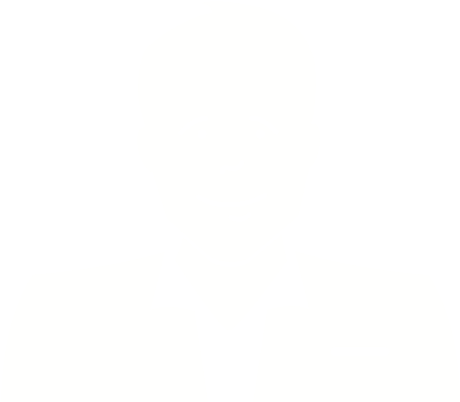
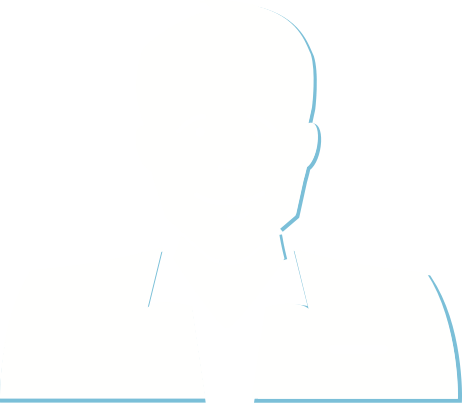
van alles gedaan en nog meer
ja ja, heel een dag werk.

diff --git a/stylesheets/main.css b/stylesheets/main.css
@@ -93,11 +93,8 @@ header .slogan {
   margin-bottom: 30px;
 }
 /* line 82, ../sass/main.sass */
-.explanation ol li {
-  padding-top: 195px;
-  background-image: url("../images/checklist.png");
-  background-repeat: no-repeat;
-  background-position: top center;
+.explanation ol li.questions {
+  padding-top: 215px;
   height: 300px;
   width: 340px;
   float: left;
@@ -105,38 +102,78 @@ header .slogan {
   color: #fffeff;
   line-height: 30px;
   text-align: center;
+  height: 300px;
+  width: 340px;
+  background-image: url("../images/checklist.png");
+  background-repeat: no-repeat;
+  background-position: center 30px;
+}
+/* line 98, ../sass/main.sass */
+.explanation ol li.lawyer {
+  padding-top: 215px;
+  height: 300px;
+  width: 340px;
+  float: left;
+  font-size: 20px;
+  color: #fffeff;
+  line-height: 30px;
+  text-align: center;
+  height: 300px;
+  width: 340px;
+  background-image: url("../images/jurist.png");
+  background-repeat: no-repeat;
+  background-position: top center;
+}
+/* line 114, ../sass/main.sass */
+.explanation ol li.done {
+  padding-top: 215px;
+  height: 300px;
+  width: 340px;
+  float: left;
+  font-size: 20px;
+  color: #fffeff;
+  line-height: 30px;
+  text-align: center;
+  height: 300px;
+  width: 340px;
+  background-image: url("../images/klaar.png");
+  background-repeat: no-repeat;
+  background-position: center 30px;
 }
 
-/* line 97, ../sass/main.sass */
-.information {
+/* line 133, ../sass/main.sass */
+section.information div.content {
+  width: 593px;
+  float: left;
+}
+/* line 136, ../sass/main.sass */
+section.information div.lawyer {
+  float: right;
   background-image: url("../images/Advocaat.png");
   background-repeat: no-repeat;
   background-position: top right;
-}
-/* line 98, ../sass/main.sass */
-.information p {
-  width: 593px;
-}
-/* line 100, ../sass/main.sass */
-.information h2 {
-  margin-bottom: 30px;
+  padding-top: 314px;
+  height: 0;
+  overflow: hidden;
+  width: 275px;
 }
 
-/* line 107, ../sass/main.sass */
+/* line 148, ../sass/main.sass */
 .product {
-  margin-top: 195px;
+  margin-top: 215px;
   text-align: center;
 }
-/* line 110, ../sass/main.sass */
+/* line 151, ../sass/main.sass */
 .product h2 {
   text-align: center;
+  padding-bottom: 30px;
 }
-/* line 112, ../sass/main.sass */
+/* line 154, ../sass/main.sass */
 .product h3 {
   margin-top: 30px;
   font-family: Ubuntu;
 }
-/* line 115, ../sass/main.sass */
+/* line 157, ../sass/main.sass */
 .product .terms, .product .contract {
   float: left;
   padding-top: 305px;
@@ -146,29 +183,71 @@ header .slogan {
   background-repeat: no-repeat;
   background-position: top center;
 }
-/* line 125, ../sass/main.sass */
-.product .terms a, .product .contract a {
-  margin-top: 30px;
+/* line 168, ../sass/main.sass */
+.product .terms p a, .product .contract p a {
+  margin-top: 45px;
 }
-/* line 127, ../sass/main.sass */
+/* line 170, ../sass/main.sass */
 .product .contract {
   float: right;
   background-image: url("../images/contract.png");
 }
 
-/* line 136, ../sass/main.sass */
+/* line 179, ../sass/main.sass */
 .testimonial blockquote {
   text-align: center;
 }
-/* line 138, ../sass/main.sass */
+/* line 181, ../sass/main.sass */
 .testimonial blockquote p {
   display: block;
   text-align: center;
   font-family: "Ubuntu-Italic";
-  font-size: 48px;
-  line-height: 86px;
+  font-size: 35px;
+  line-height: 63px;
 }
-/* line 145, ../sass/main.sass */
+/* line 188, ../sass/main.sass */
 .testimonial blockquote footer {
-  font-size: 30px;
+  padding-top: 20px;
+  font-size: 20px;
+}
+
+/* line 192, ../sass/main.sass */
+.contact {
+  margin-top: 215px;
+  text-align: center;
+}
+/* line 195, ../sass/main.sass */
+.contact h2 {
+  text-align: center;
+  padding-bottom: 30px;
+}
+/* line 198, ../sass/main.sass */
+.contact .mail, .contact .phone {
+  width: 490px;
+  padding-top: 100px;
+  height: 200px;
+}
+/* line 202, ../sass/main.sass */
+.contact .mail h2, .contact .phone h2 {
+  text-align: center;
+  padding-bottom: 30px;
+}
+/* line 205, ../sass/main.sass */
+.contact .mail h3, .contact .phone h3 {
+  margin-top: 30px;
+  font-family: Ubuntu;
+}
+/* line 208, ../sass/main.sass */
+.contact .mail {
+  float: left;
+  background-image: url("../images/mail@2x.png");
+  background-repeat: no-repeat;
+  background-position: top center;
+}
+/* line 215, ../sass/main.sass */
+.contact .phone {
+  float: right;
+  background-image: url("../images/phone@2x.png");
+  background-repeat: no-repeat;
+  background-position: top center;
 }

diff --git a/sass/main.sass b/sass/main.sass
@@ -79,12 +79,8 @@ header
 		text-align: center
 		margin-bottom: 30px
 	ol
-		li
-			padding-top: 195px
-			background:
-				image: url("../images/checklist.png")
-				repeat: no-repeat
-				position: top center
+		li.questions
+			padding-top: 215px
 			height: 300px
 			width: 340px
 			float: left
@@ -93,22 +89,68 @@ header
 			color: #FFFEFF
 			line-height: 30px
 			text-align: center
+			height: 300px
+			width: 340px
+			background:
+				image: url("../images/checklist.png")
+				repeat: no-repeat
+				position: center 30px
+		li.lawyer
+			padding-top: 215px
+			height: 300px
+			width: 340px
+			float: left
+			font:
+				size: 20px
+			color: #FFFEFF
+			line-height: 30px
+			text-align: center
+			height: 300px
+			width: 340px
+			background:
+				image: url("../images/jurist.png")
+				repeat: no-repeat
+				position: top center
+		li.done
+			padding-top: 215px
+			height: 300px
+			width: 340px
+			float: left
+			font:
+				size: 20px
+			color: #FFFEFF
+			line-height: 30px
+			text-align: center
+			height: 300px
+			width: 340px
+			background:
+				image: url("../images/klaar.png")
+				repeat: no-repeat
+				position: center 30px
 
-.information
-	p
+
+section.information
+	div.content
 		width: 593px
-	h2
-		margin-bottom: 30px
-	background:
-		image: url("../images/Advocaat.png")
-		repeat: no-repeat
-		position: top right
+		float: left
+	div.lawyer
+		float: right
+		background:
+			image: url("../images/Advocaat.png")
+			repeat: no-repeat
+			position: top right
+		padding-top: 314px
+		height: 0
+		overflow: hidden
+		width: 275px
+
 
 .product
-	margin-top: 195px
+	margin-top: 215px
 	text-align: center
 	h2
 		text-align: center
+		padding-bottom: 30px
 	h3
 		margin-top: 30px
 		font-family: Ubuntu
@@ -122,8 +164,9 @@ header
 			repeat: no-repeat
 			position: top center
 		p
-		a
-			margin-top: 30px
+
+			a
+				margin-top: 45px
 	.contract
 		float: right
 		background:
@@ -140,10 +183,41 @@ header
 			text-align: center
 			font:
 				family: "Ubuntu-Italic"
-				size: 48px
-			line-height: 86px
+				size: 35px
+			line-height: 63px
 		footer
-			font-size: 30px
+			padding-top: 20px
+			font-size: 20px
+
+.contact
+	margin-top: 215px
+	text-align: center
+	h2
+		text-align: center
+		padding-bottom: 30px
+	.mail, .phone
+		width: 490px
+		padding-top: 100px
+		height: 200px
+		h2
+			text-align: center
+			padding-bottom: 30px
+		h3
+			margin-top: 30px
+			font-family: Ubuntu
+	.mail
+		float: left
+		background:
+			image: url("../images/mail@2x.png")
+			repeat: no-repeat
+			position: top center
+
+	.phone
+		float: right
+		background:
+			image: url("../images/phone@2x.png")
+			repeat: no-repeat
+			position: top center
 
 
 

diff --git a/index.html b/index.html
@@ -29,18 +29,21 @@
 			<section class="explanation">
 				<h2>Juridisch Geregeld in 3 stappen</h2>
 				<ol>
-					<li>Beantwoord onze vragenlijst</li>
-					<li>Personelijk contact met onze jurist</li>
-					<li>Je document is klaar voor gebruik</li>
+					<li class="questions">Beantwoord onze vragenlijst</li>
+					<li class="lawyer">Personelijk contact met onze jurist</li>
+					<li class="done">Je document is klaar voor gebruik</li>
 				</ol>
 				<div class="clear"></div>
 			</section>
 
 			<section class="information">
-				<h2>Zo hebben wij het juridisch geregeld</h2>
-				<p>
-					Wij helpen je op weg bij, wat voor ons, basis vraagstukken zijn. Algemene voorwaarden, (arbeids)contracten, maar wij kunnen je ook helpen om een door jou geschreven offerte al dan niet beter te formuleren en in lijn te trekken met de algemene voorwaarden die je al hebt of van ons eerder hebt ontvangen.
-				</p>
+				<div class="content">
+					<h2>Zo hebben wij het juridisch geregeld</h2>
+					<p>
+						Wij helpen je op weg bij, wat voor ons, basis vraagstukken zijn. Algemene voorwaarden, (arbeids)contracten, maar wij kunnen je ook helpen om een door jou geschreven offerte al dan niet beter te formuleren en in lijn te trekken met de algemene voorwaarden die je al hebt of van ons eerder hebt ontvangen.
+					</p>
+				</div>
+				<div class="lawyer"></div>
 				<div class="clear"></div>
 			</section>
 
@@ -48,14 +51,14 @@
 			<section class="product">
 				<h2>Onze producten</h2>
 				<div class="terms">
-					<h3>Algemene voorwaarden</h2>
+					<h3>Algemene voorwaarden</h3>
 					<p>
 						Een algemene voorwaarden is voor geen een freelancer of bedrijf iets nieuws. Iedereen is er bekend mee.
 					</p>
 					<a href="#" class="button">koop nu</a>
 				</div>
 				<div class="contract">
-					<h3>Arbeidscontract</h2>
+					<h3>Arbeidscontract</h3>
 					<p>
 						Een arbeidscontract is een overeenkomst tussen een werknemer en een werkgever, waarin werkafspraken staan.
 					</p>
@@ -69,7 +72,13 @@
 					<p>"Helder, makkelijk in gebruik, zeer betaalbaar en alles bij elkaar!"</p>
 					<footer>—Anne Burgaud</footer>
 				</blockquote>
+				<div class="clear"></div>
 			</section>
+
+			<section class="contact">
+				<h2>Neem contact op met juridisch geregeld</h2>
+				<div class="mail"> <h3>Mail ons: anne@juridischgeregeld.nl</h3></div>
+				<div class="phone"> <h3>Bel ons: 020-6970000</h3></div>
 		</div>
 	</body>
 </html>
